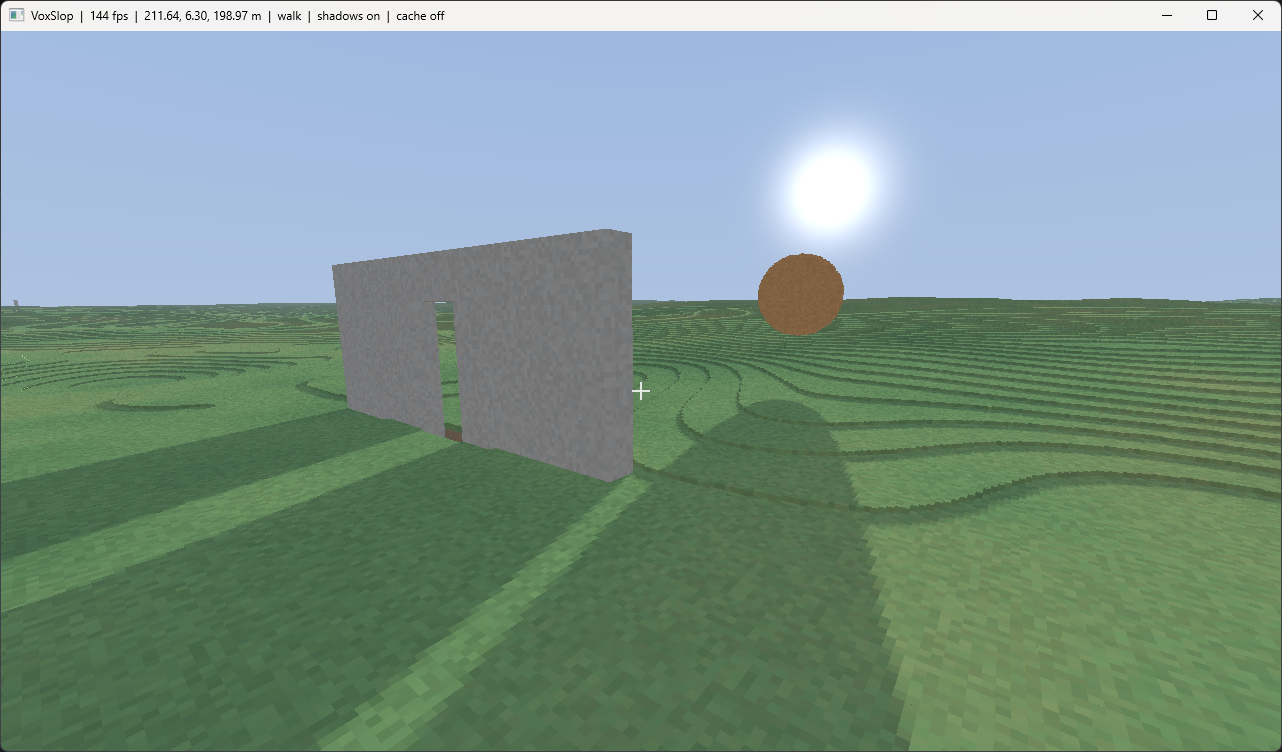
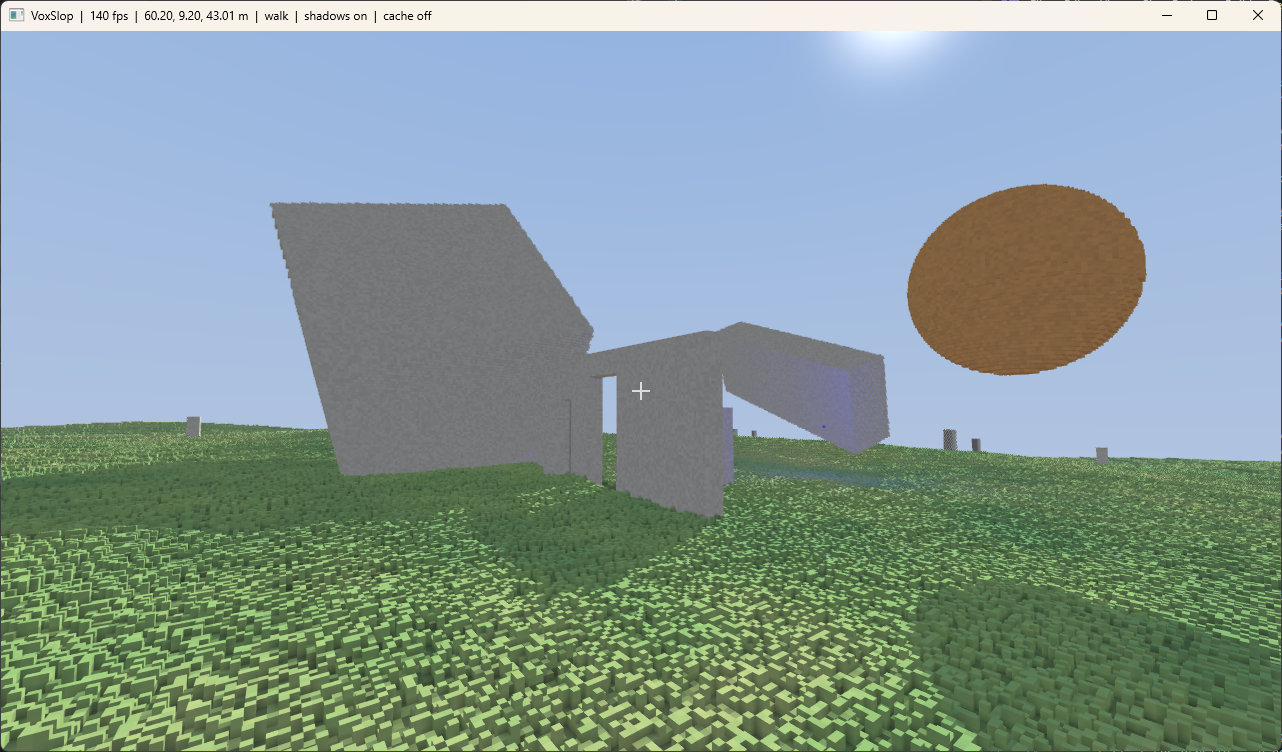
readme update

diff --git a/README.md b/README.md
@@ -2,6 +2,8 @@
 
 ![VoxSlop screenshot](screen.png)
 
+![VoxSlop screenshot](screen-pico8.png)
+
 A voxel-based 3D FPS tech demo. Unlike Minecraft-style games where voxels are
 metre-scale cubes, VoxSlop works at centimetre scale — currently 5 cm voxels —
 so a modest landscape is made of *billions* of voxels. The whole world is drawn
@@ -9,14 +11,20 @@ by GPU raymarching, with no meshes involved.
 
 ## Characteristics
 
-- **Tiny voxels** — 5 cm, giving a ~410 × 410 m landscape of ~21 billion voxel slots.
-- **Meshless rendering** — one fullscreen fragment shader raymarches the world;
-  render cost scales with screen resolution, not voxel count.
+- **Tiny voxels** — 5 cm, giving a ~102 × 51 × 102 m world of ~4 billion voxel slots.
+- **Meshless rendering** — fragment shaders raymarch the world; render cost scales
+  with screen resolution, not voxel count.
 - **Sparse "brickmap" storage** — empty and uniform regions cost no memory, so the
   world fits in tens of MB rather than gigabytes.
-- **Voxel-quantised shadows** — one shadow value per voxel face, cached on the GPU.
-- **Animated day/night sun**, procedural terrain and grass, and a cached world that
-  loads instantly on subsequent runs.
+- **Distance LOD** — each brick has a downsampled mip so far-off voxels don't shimmer.
+- **Temporal anti-aliasing** with reprojection, variance clipping and disocclusion rejection.
+- **Lighting** — animated day/night sun with voxel-quantised, GPU-cached shadows;
+  an orbiting coloured point light; and geometry-based ambient occlusion.
+- **Dynamic objects** — spinning boxes/spheres re-voxelised onto the world grid each
+  frame, that cast and receive shadows.
+- **Visual styles** — hard cubes, rounded blobs, sphere/bead voxels, and a retro
+  fixed-palette + dither filter, all toggleable at runtime.
+- Procedural terrain and grass, and a cached world that loads instantly on later runs.
 - **FPS controls** — walk with gravity/jump and step-up over terrain, plus a noclip fly mode.
 
 ## Requirements
@@ -39,8 +47,15 @@ dotnet run --project VoxSlop.App
 | Space / Ctrl | Jump / fly up · fly down |
 | F | Toggle walk / noclip |
 | L | Toggle sun shadows |
+| O | Toggle ambient occlusion |
 | P | Pause / resume the sun |
 | C | Toggle the per-voxel-face shadow cache |
+| G | Toggle the orbiting point light |
+| T | Toggle temporal anti-aliasing |
+| V | Toggle rounded-blob voxels |
+| B | Toggle sphere / bead voxels |
+| K | Toggle retro palette + dither |
+| F11 | Toggle borderless fullscreen |
 | R | Reload shaders from disk |
 | Esc | Release / recapture the cursor |
 